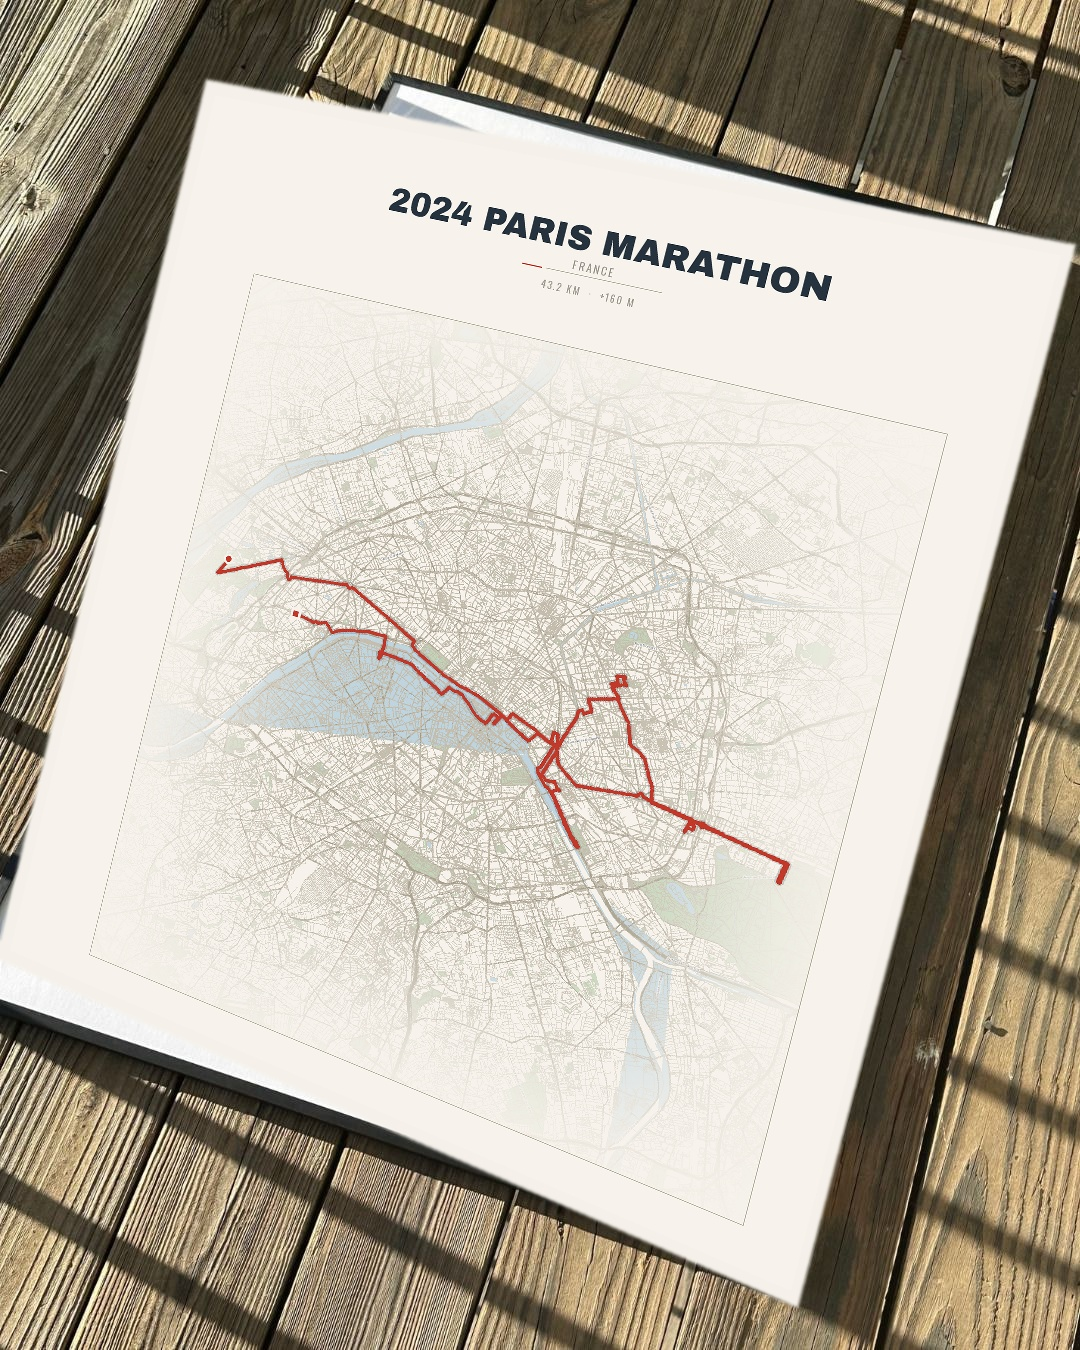
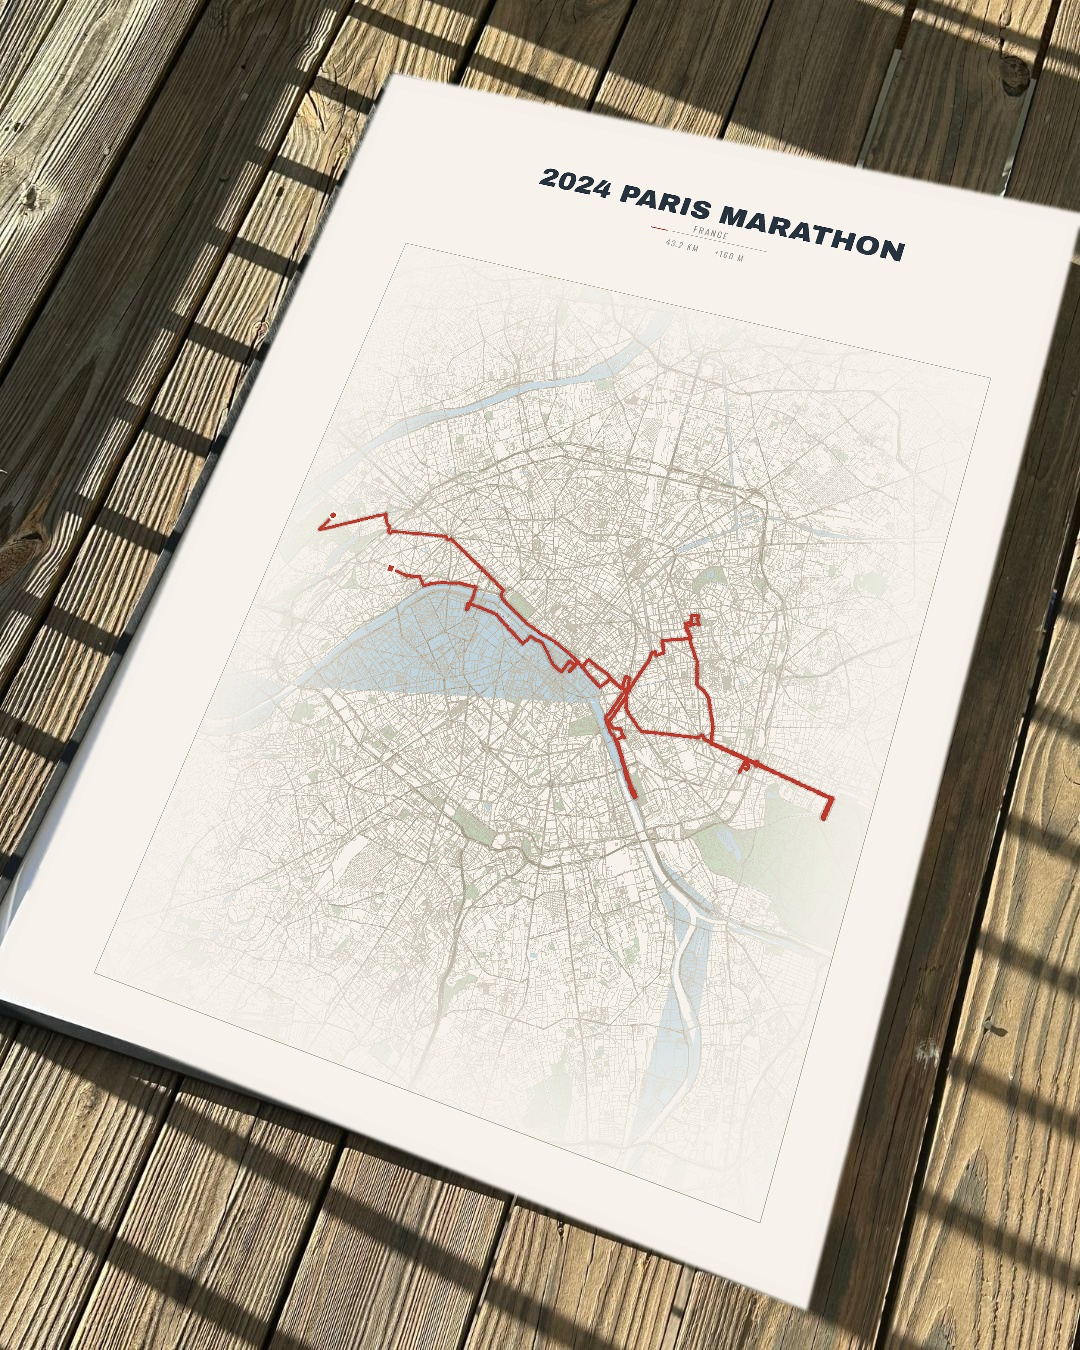
Fix review_4 sheet geometry; correct contact-sheet filename

diff --git a/index.html b/index.html
@@ -199,7 +199,7 @@ footer .wrap{display:flex;justify-content:space-between;gap:18px;flex-wrap:wrap}
         <div class="sample"><img src="assets/print-review_6-green.jpg" alt="Paris Marathon route print in green"><div class="cap">GREEN</div></div>
         <div class="sample"><img src="assets/print-review_6-orange.jpg" alt="Paris Marathon route print in orange"><div class="cap">ORANGE</div></div>
       </div>
-      <div class="sample"><img src="assets/MOCKUPS_SHEET.png" alt="All room mockups with the Paris Marathon route print" style="grid-column:1/-1;aspect-ratio:auto"><div class="cap">EVERY ROOM &middot; ONE PRINT</div></div>
+      <div class="sample"><img src="assets/print_MOCKUPS_SHEET.png" alt="All room mockups with the Paris Marathon route print" style="grid-column:1/-1;aspect-ratio:auto"><div class="cap">EVERY ROOM &middot; ONE PRINT</div></div>
     </section>
     <!-- SAMPLES -->
     <section class="wrap" id="samples">
